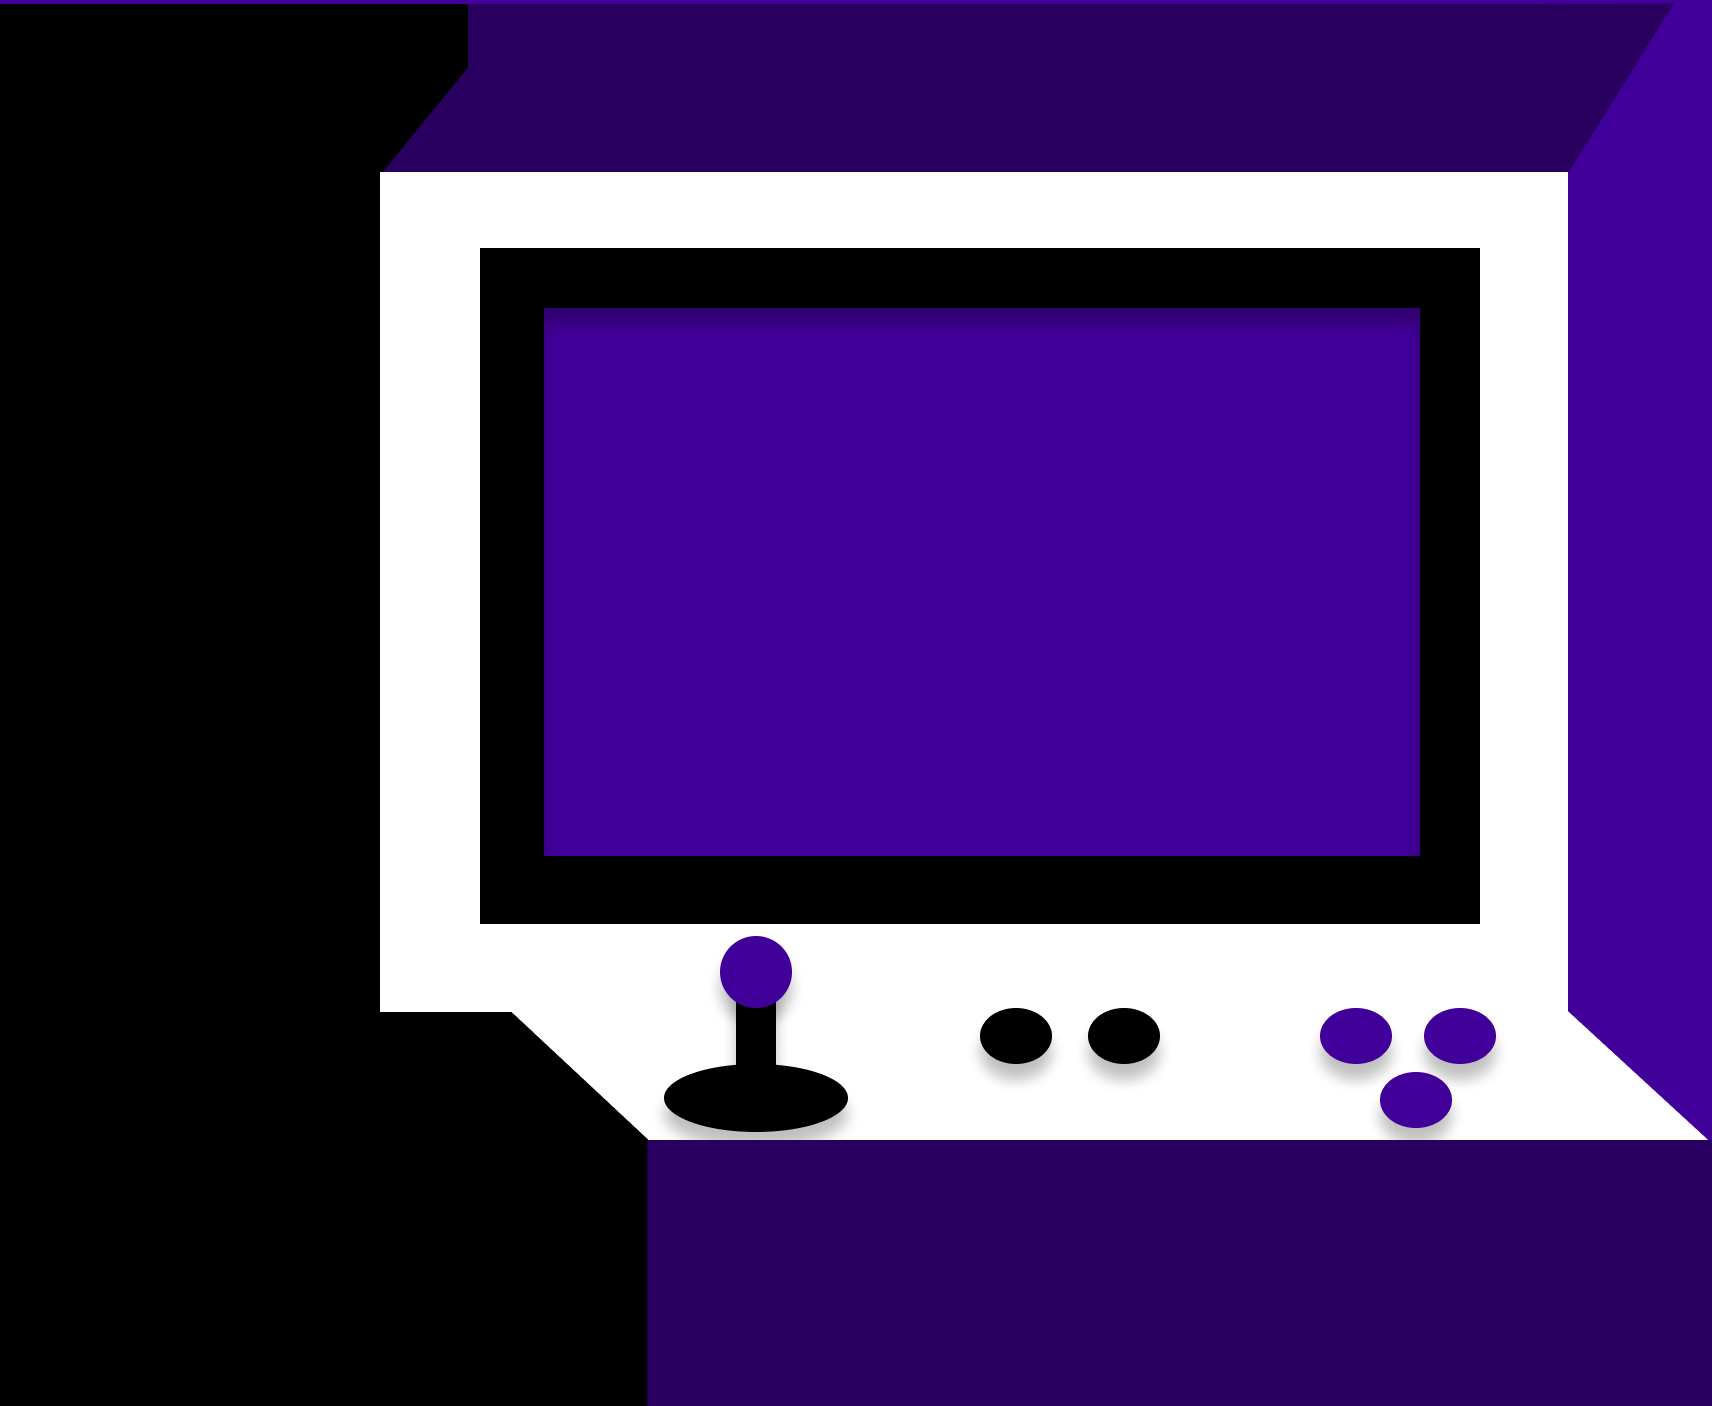
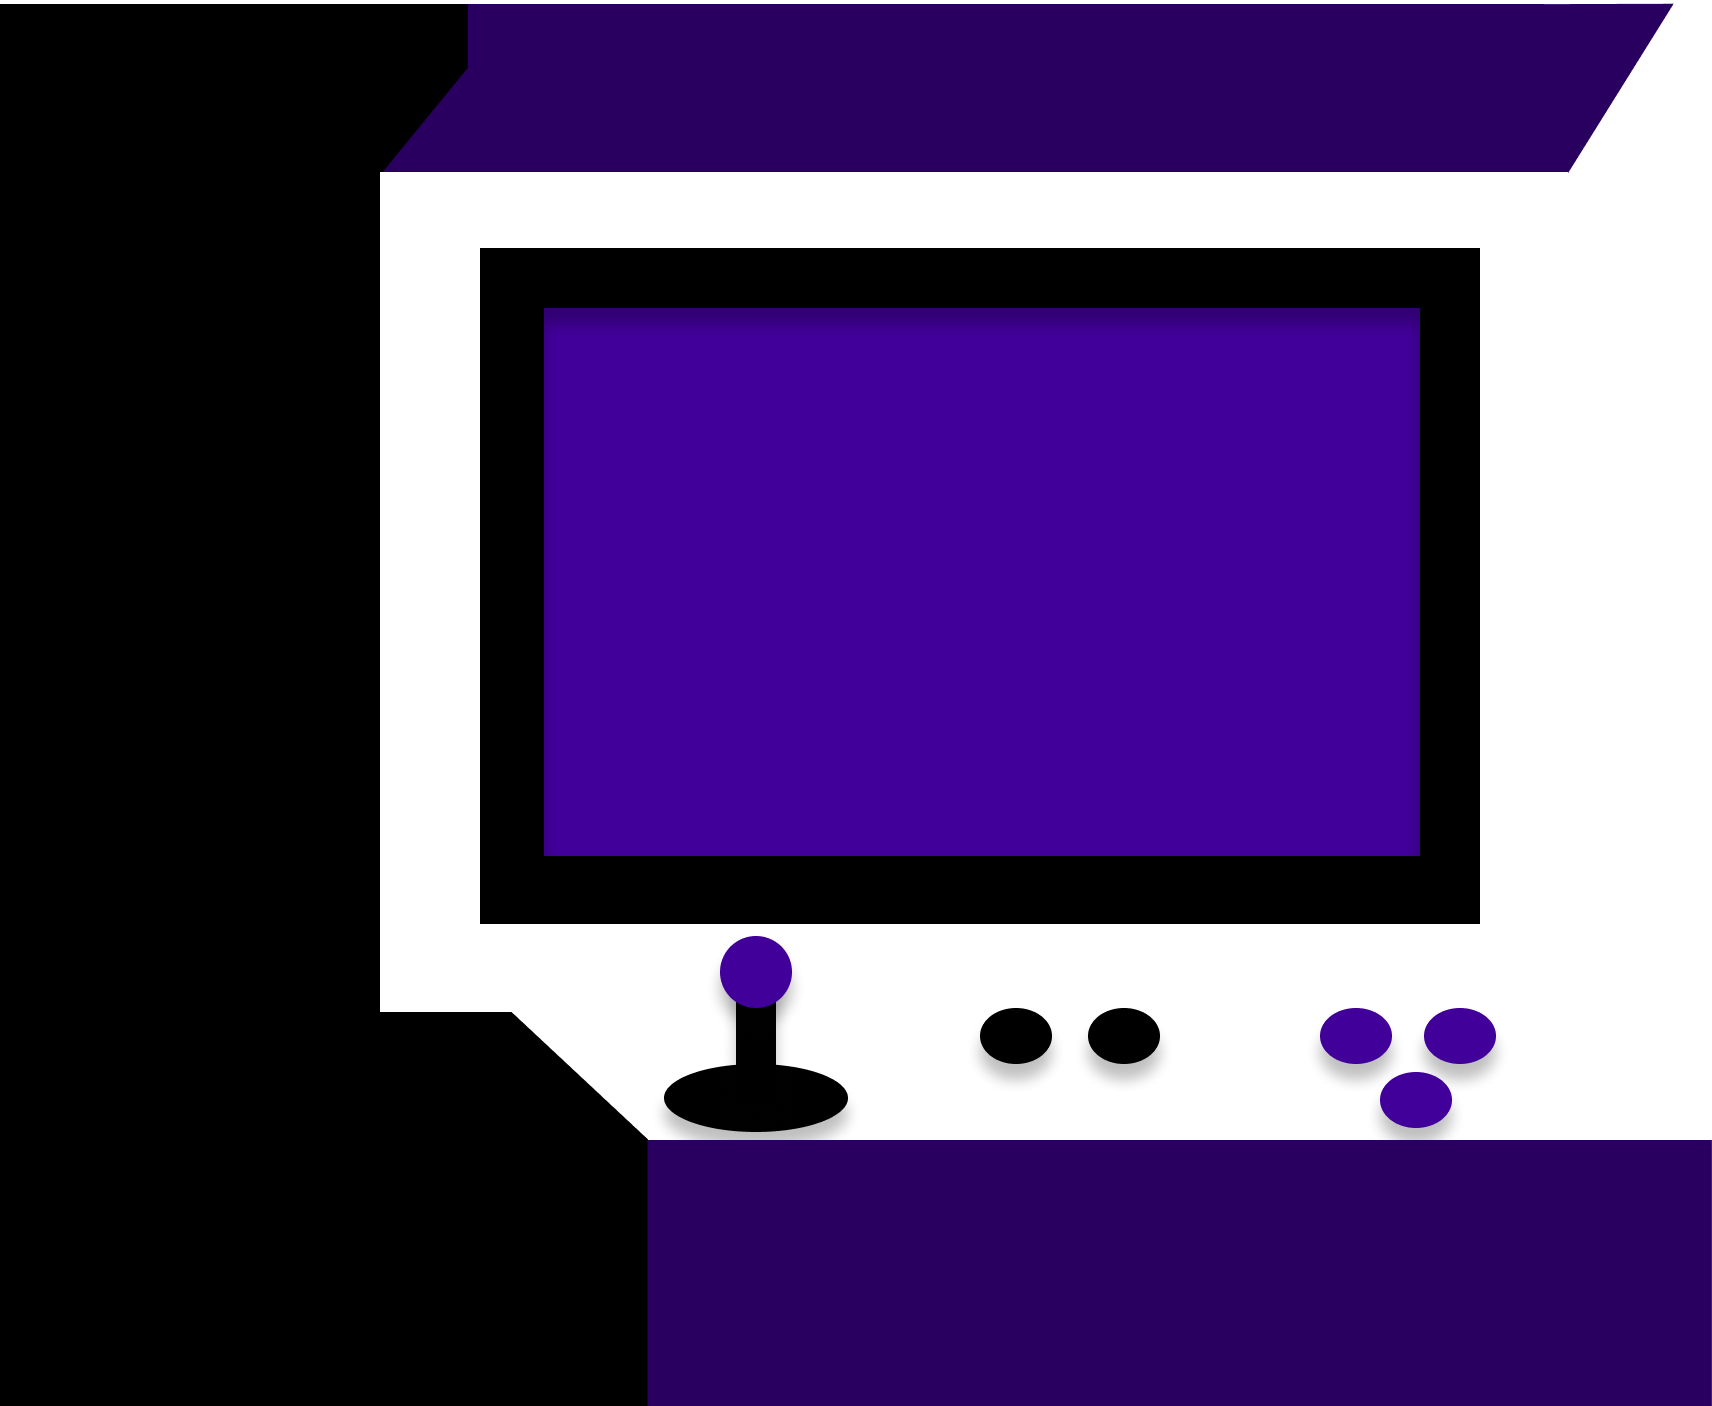
Css tweaks

Changed region(s): [[0.8978, 0.0, 1.0, 0.8257], [0.8978, 0.0, 0.9287, 0.0306]]

diff --git a/front-end/src/index.css b/front-end/src/index.css
@@ -1,7 +1,9 @@
 body {
   margin: 0;
   user-select: none;
-  background-color: #410099;
+  background-image: url(./images/tradearcadegradiant.png);
+  background-size: 2000px;
+  background-repeat: no-repeat;
   font-family: Menlo, Monaco, 'Courier New', monospace;
 }
 
@@ -62,7 +64,7 @@ body {
   position: absolute;
   display: inline;
   float: right;
-  left: 95%;
+  left: 94%;
   top: 26%;
   padding: 10px;
   font-size: 14px;
@@ -75,7 +77,7 @@ body {
   position: absolute;
   display: inline;
   float: right;
-  left: 1515px;
+  left: 1350px;
   top: 26%;
   padding: 10px;
   font-size: 14px;
@@ -122,7 +124,7 @@ body {
   position: absolute;
   display: inline;
   float: right;
-  left: 92%;
+  left: 91%;
   top: 29%;
   width: 38px;
   height: 30px;
@@ -131,7 +133,6 @@ body {
 .homePageDiv {
   padding-top: 100px;
   height: 695px;
-  background-color:#410099;
   text-align: center;
   color: #fff;
 }
@@ -285,7 +286,6 @@ body {
   width: 400px;
   height: 190px;
   border-radius: 5px;
-  background-color: #410099;
 }
 
 .loginPageFormInput {
@@ -347,7 +347,6 @@ body {
 
 .accountPageH1 {
   width: 800px;
-  padding-bottom: 30px;
   padding-top: 30px;
 }
 
@@ -562,14 +561,22 @@ body {
   margin: auto;
   padding-top: 120px;
   padding-bottom: 70px;
-  margin-left: 100px;
   font-family: Menlo, Monaco, 'Courier New', monospace;
   color: #fff;
 }
 
+.reviewsContainer {
+  margin-left: 70px;
+  margin-right: 70px;
+  width: 90%;
+  display: inline-block;
+  font-family: Menlo, Monaco, 'Courier New', monospace;
+}
+
 .reviewsHeader {
   border-bottom: 0.09rem solid #fff;
-  width: 1300px;
+  margin-left: 70px;
+  margin-right: 70px;
   padding-bottom: 20px;
 }
 
@@ -577,6 +584,16 @@ body {
   padding: 30px;
   border: 0.09rem solid #fff;
   width: 500px;
+  margin-left: 70px;
+  margin: 10px;
+  padding: 20px;
+  display: block;
+  text-align: center;
+  float: left;
+}
+
+.reviewsP {
+  font-weight: 700;
 }
 
 .reviewsDeleteButton {
@@ -643,8 +660,8 @@ body {
 }
 
 .browseGamesContainer {
-  margin-left: 50px;
-  margin-right: 50px;
+  margin-left: 70px;
+  margin-right: 70px;
   display: inline-block;
   font-family: Menlo, Monaco, 'Courier New', monospace;
 }
@@ -682,11 +699,14 @@ body {
   width: 195px;
   height: 270px;
   display: block;
+  padding-top: 20px;
+  padding-left: 20px;
+  padding-right: 20px;
 }
 
 .gameLink {
   font-weight: 700;
-  font-size: medium;
+  font-size: small;
   margin-top: 20px;
   color: #fff;
 }
@@ -728,8 +748,8 @@ body {
 }
 
 .memberListContainer {
-  margin-left: 90px;
-  margin-right: 90px;
+  margin-left: 70px;
+  margin-right: 70px;
   width: 90%;
   display: inline-block;
   font-family: Menlo, Monaco, 'Courier New', monospace;
@@ -776,7 +796,7 @@ body {
 .memberPageDiv {
   margin: auto;
   padding-top: 100px;
-  height: 1000px;
+  width: 100%;
   background-color: #000;
 }
 
@@ -802,10 +822,10 @@ body {
   float: right;
   margin-top: 25px;
   margin-bottom: 25px;
-  width: 78%;
-  height: 900px;
   margin-right: 20px;
   padding-left: 20px;
+  padding-bottom: 20px;
+  width: 78%;
   border: 0.09rem solid #410099;
   background-color: #000;
   color: #fff;
@@ -845,7 +865,7 @@ body {
 }
 
 .memberPageGameTitle {
-  font-size: medium;
+  font-size: small;
   font-weight: 700;
   color: #fff;
 }
@@ -867,7 +887,7 @@ body {
 
 .memberPageH2 {
   padding-bottom: 20px;
-  width: 1000px;
+  width: 1100px;
   border-bottom: 0.09rem solid #fff;
 }
 
@@ -883,7 +903,7 @@ body {
   width: 1000px;
   height: 500px;
   padding: 20px;
-  border: 0.09rem solid #fff;
+  background-color: #220051
 }
 
 .gamePageFloatLeft {
@@ -900,6 +920,19 @@ body {
 .gamePageImage {
   width: 330px;
   height: 480px;
+}
+
+.gamePagePlatform {
+  font-weight: 20;
+  padding-bottom: 10px;
+  border-bottom: 0.09rem solid #fff;
+  width: 575px;
+}
+
+.gamePageDescription {
+  font-weight: 20;
+  padding-top: 20px;
+  padding-bottom: 20px;
 }
 
 .gamePageReviewContainer {
@@ -926,7 +959,6 @@ body {
   margin: auto;
   text-align: center;
   font-weight: 700;
-  background-color: #410099;
 }
 
 .gamePageReviewInput {

diff --git a/front-end/src/components/GamePage.js b/front-end/src/components/GamePage.js
@@ -73,8 +73,8 @@ function GamePage({isLoggedIn, currentUser}) {
                     </div>
                     <div className="gamePageFloatRight">
                         <h2>{game.title}</h2>
-                        <h4>{game.platform}</h4>
-                        <p>{game.description}</p>
+                        <h4 className="gamePagePlatform">{game.platform}</h4>
+                        <p className="gamePageDescription">{game.description}</p>
                         <h4>Members Who Own</h4>
                         {(renderMembers)}
                     </div>

diff --git a/front-end/src/components/Reviews.js b/front-end/src/components/Reviews.js
@@ -33,7 +33,7 @@ function Reviews({isLoggedIn, currentUser}) {
             <NavBar isLoggedIn={isLoggedIn}/>
             <div className="reviewsDiv">
                 <h1 className="reviewsHeader">My Game Reviews</h1>
-                <div>
+                <div className="reviewsContainer">
                     {renderReviews}
                 </div>
             </div>
